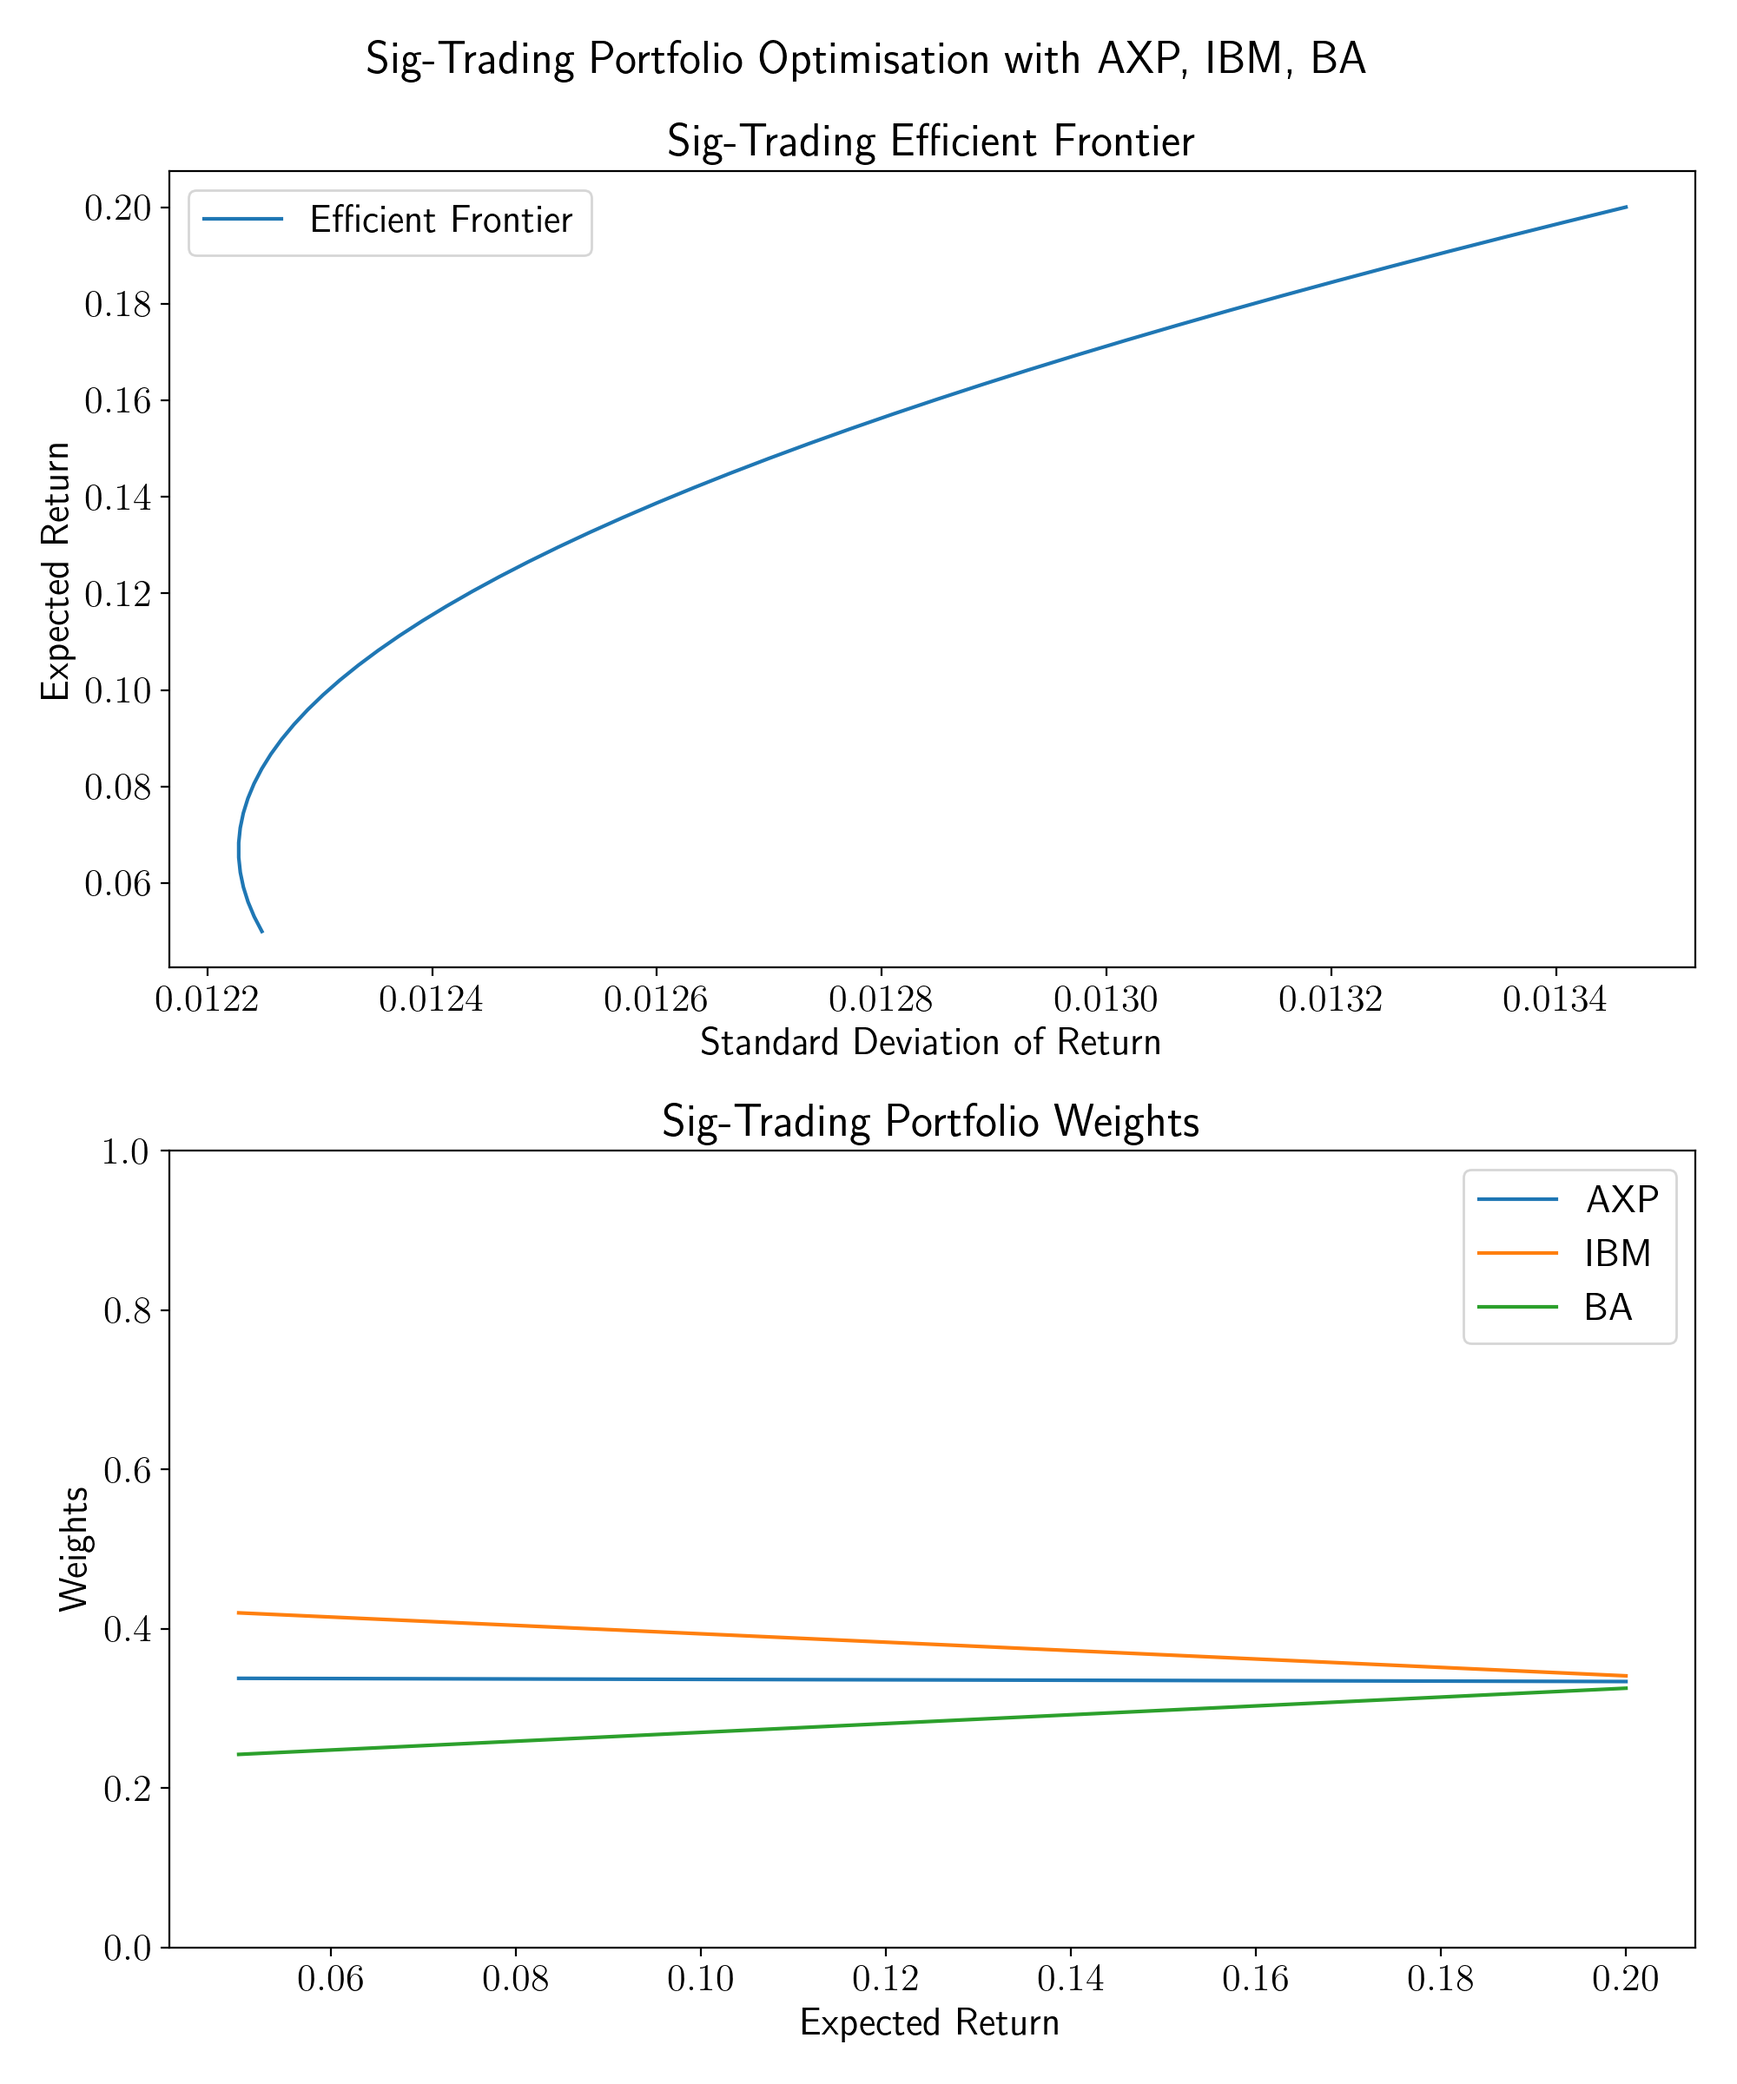
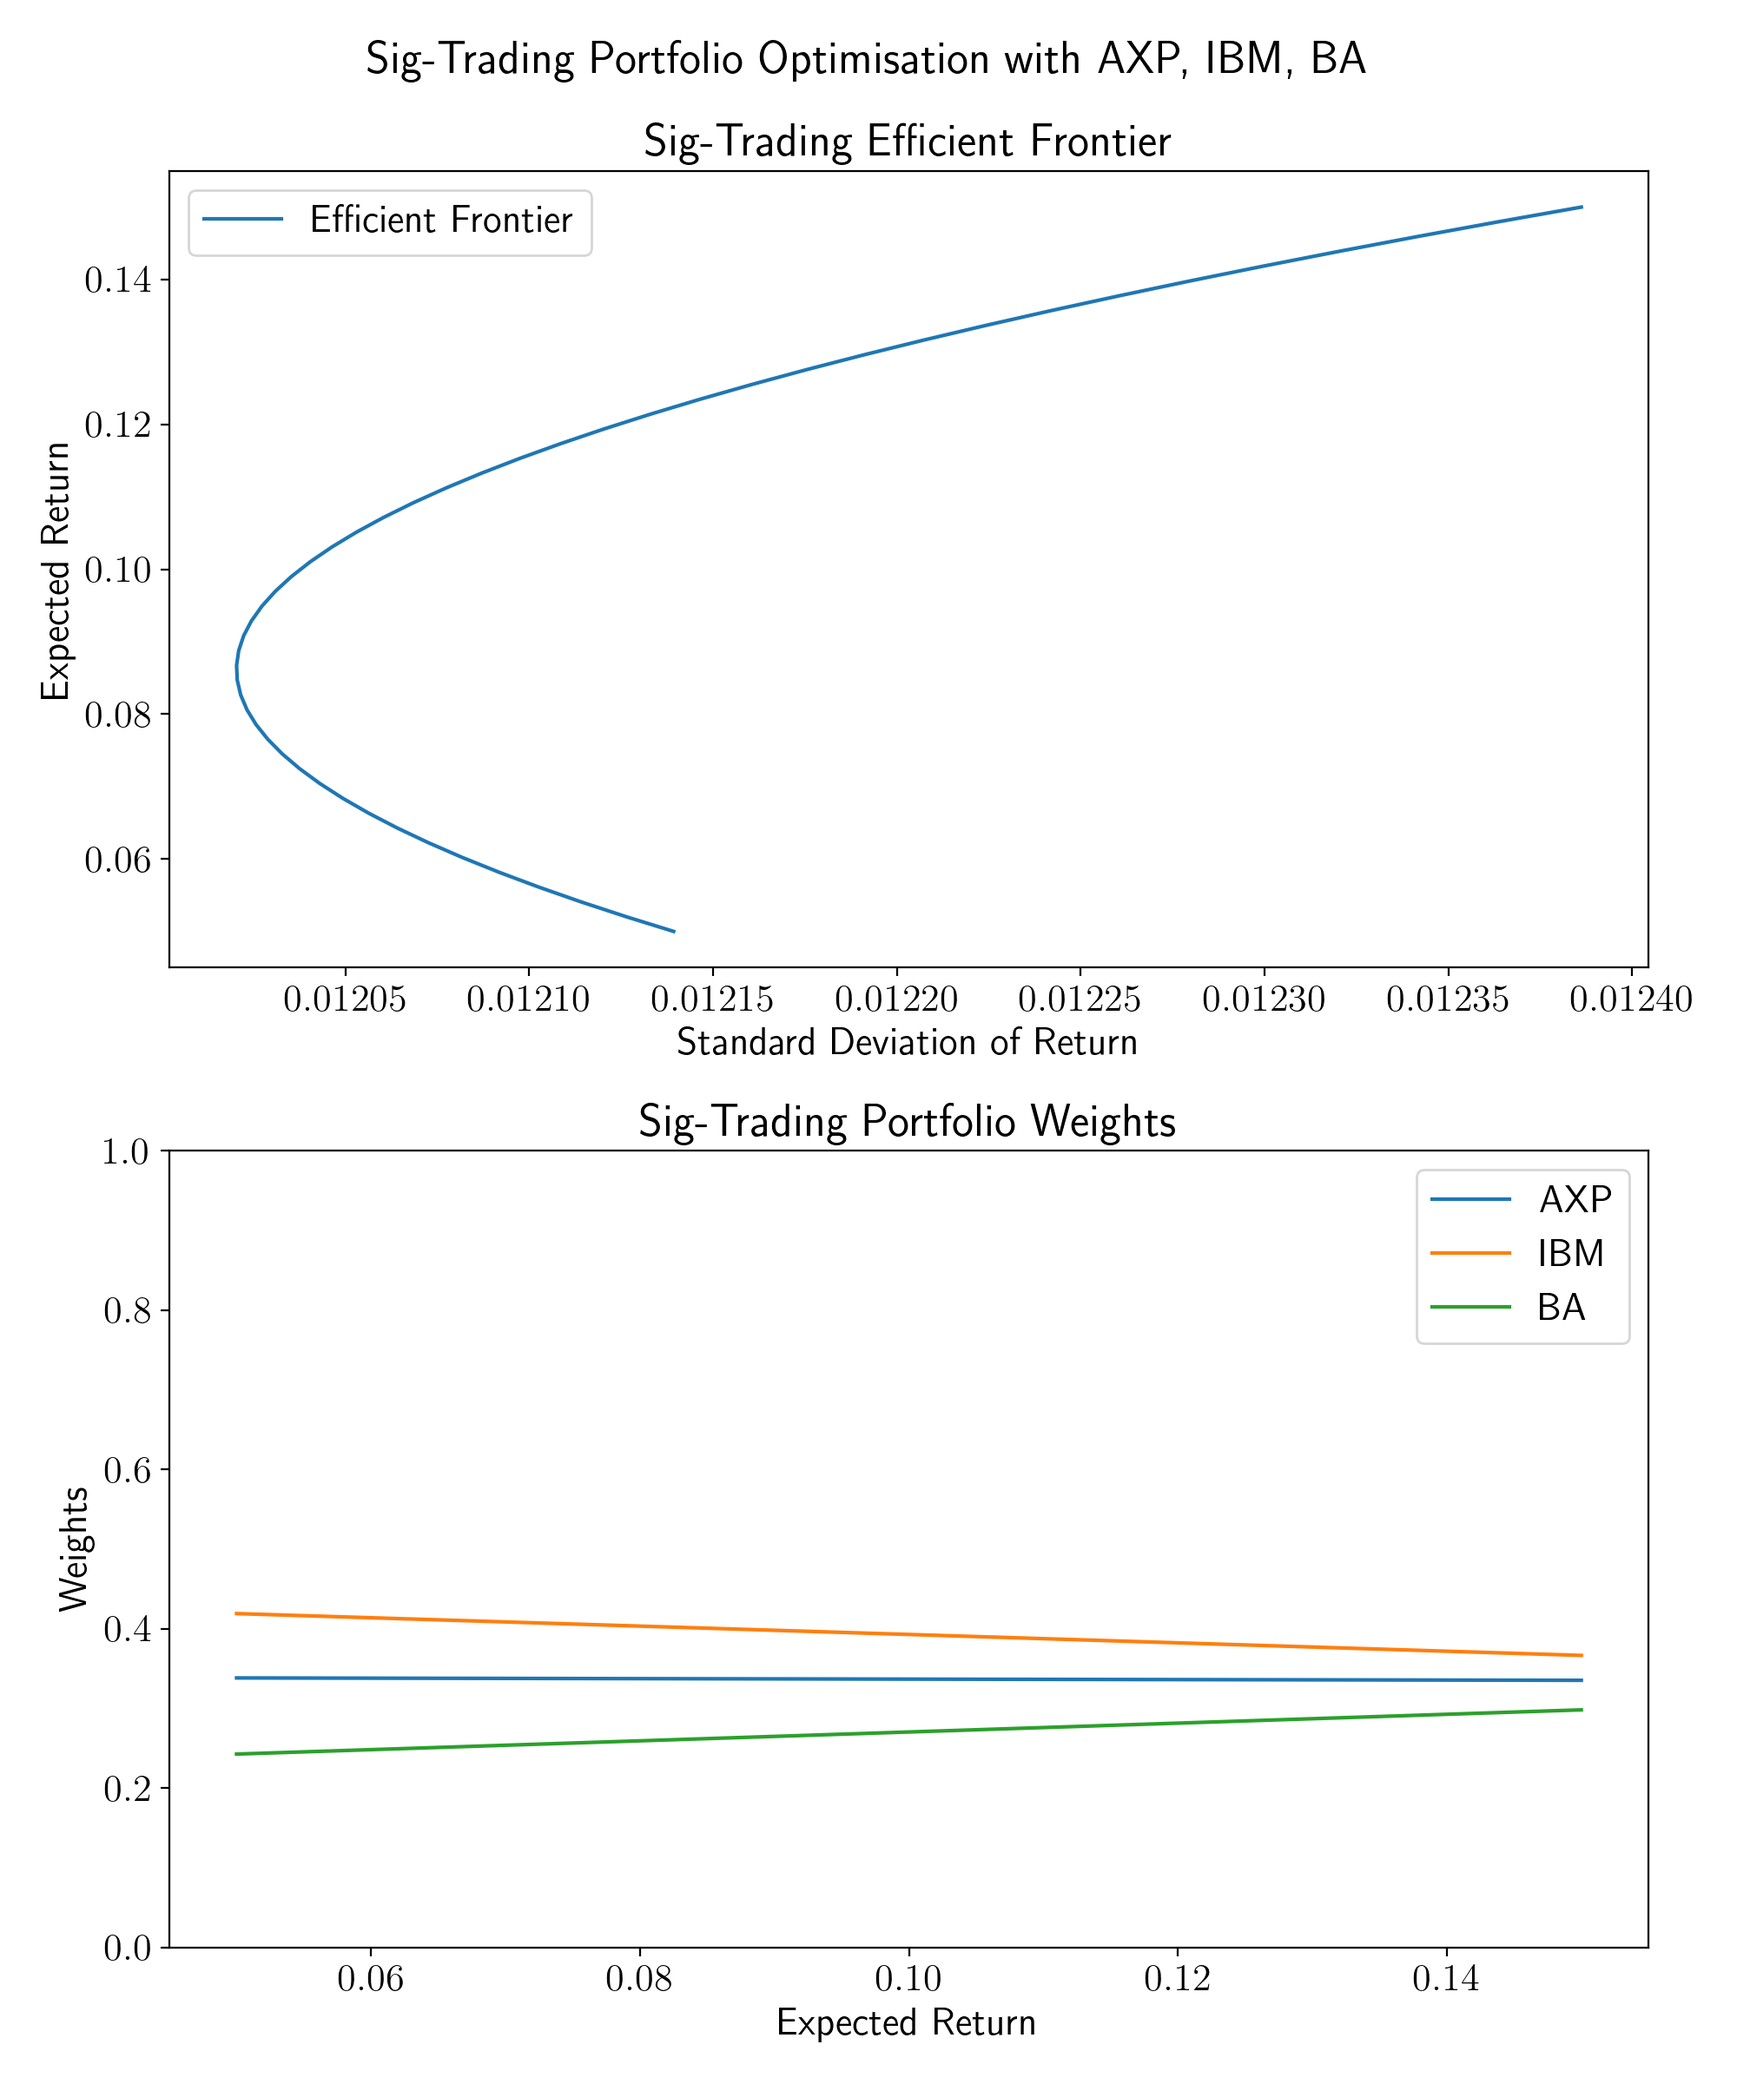
More 4-asset comparison

diff --git a/optimisation/sig_trading_run.py b/optimisation/sig_trading_run.py
@@ -148,7 +148,7 @@ def combine_all(stocks, level=2, start_date='2017-01-01', end_date='2018-01-01',
 
 # Choices are: AAPL, AXP, BA, CAT, CSCO, DIS, GS, HD, IBM, JPM, KO, MCD, MRK, UNH, WBA
 stocks = ["AXP", "IBM", "BA"]
-interval = (0.05, 0.2)
+interval = (0.05, 0.15)
 pnl_n, var_n, weight_n = combine_all(stocks[:2], include_ffr=False, plot=True, frontier_interval=interval)
 pnl_n2, var_n2, weight_n2 = combine_all(stocks, include_ffr=False, plot=True, frontier_interval=interval)
 pnl_f, var_f, weight_f = combine_all(stocks[:2], include_ffr=True, plot=True, frontier_interval=interval)
